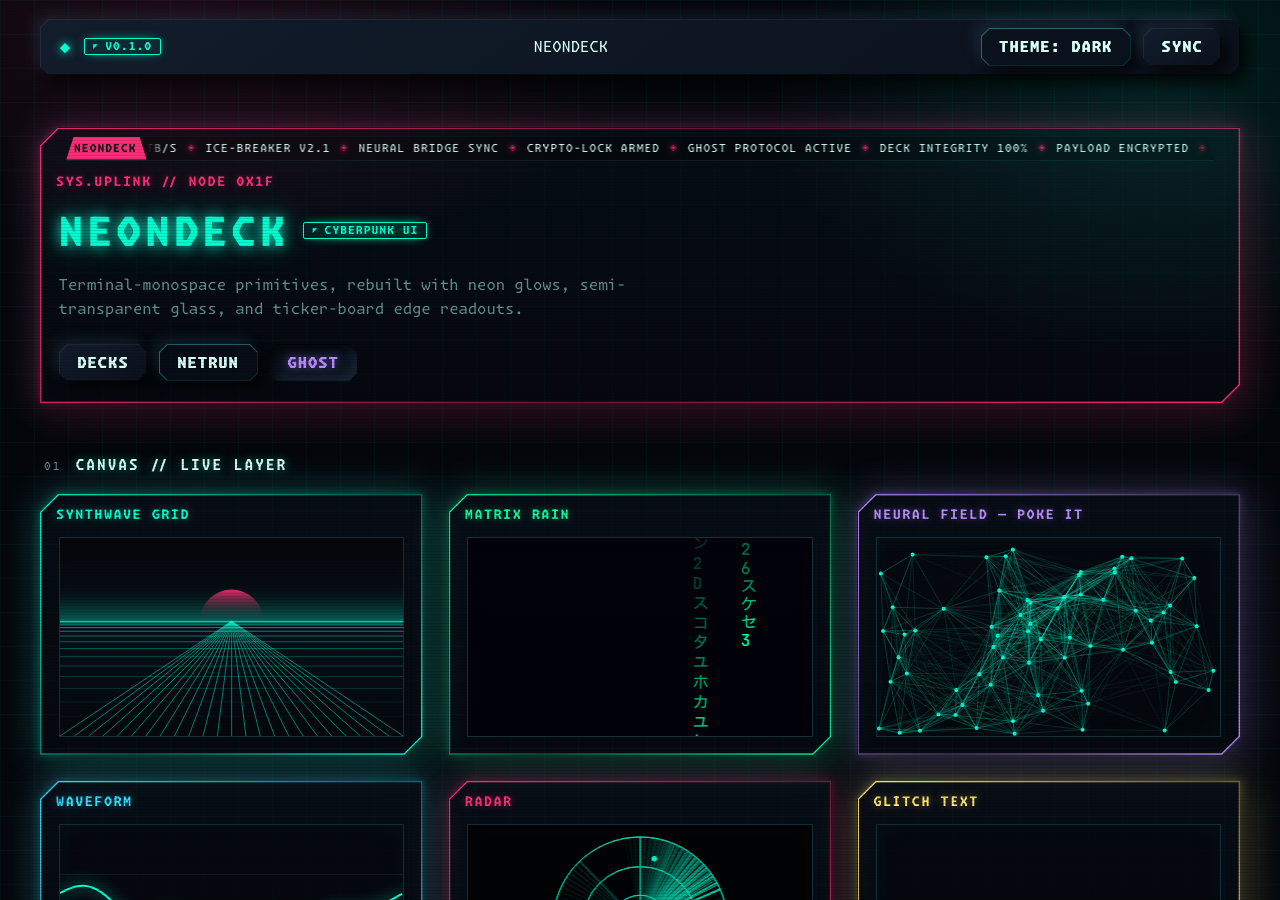
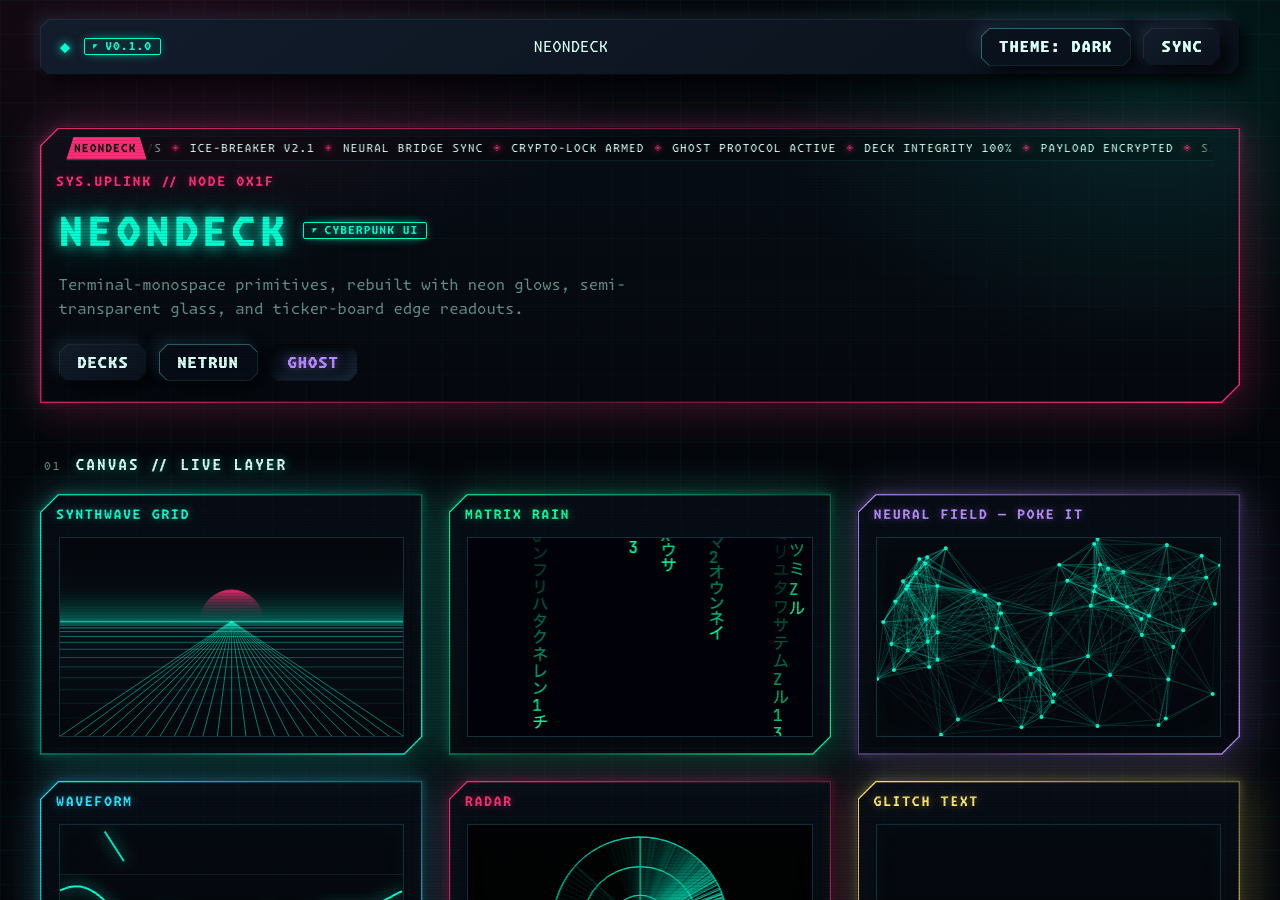
feat: add AsciiScene — three.js object rendered as transparent ASCII text
AsciiScene wraps a react-three-fiber Canvas in drei's AsciiRenderer with
a transparent clear colour. three's AsciiEffect maps fully transparent
pixels to the first ramp character, so with a ramp that starts with a
space (ASCII_RAMP) the empty canvas becomes blank text and only the
object is drawn — as glyphs in the tone colour (fgColor: currentColor)
and the deck's code font, sitting directly on whatever the component is
placed over. Dark surfaces map to dense glyphs, so the built-in shapes
use a mid-grey material with a strong key light for a full ramp. The
renderer mounts only once the viewport is measured, avoiding drei's
first-frame getImageData race.

Props: shape (Hologram shapes), tone, characters, resolution, invert,
speed, interactive, glow, label, or children for a custom scene.

Light-mode tone contrast: [data-tone] --tone is now light-dark(), with
darker variants of every neon on light so tone-coloured text (ASCII
glyphs, ticker labels, card titles) stays legible; --tone-ink is the
matching text colour for use *on* a tone fill.

Add Canvas + 3D stories, docs, a ramp invariant test, and make the
TickerBoard story's `theme` control default to auto rather than forcing
dark. Refresh screenshots.

diff --git a/components/AsciiScene.tsx b/components/AsciiScene.tsx
@@ -1,0 +1,125 @@
+'use client';
+
+import styles from '@components/AsciiScene.module.css';
+
+import * as React from 'react';
+import { Canvas, useFrame, useThree } from '@react-three/fiber';
+import { AsciiRenderer, OrbitControls } from '@react-three/drei';
+import * as THREE from 'three';
+
+import type { HologramShape } from '@components/Hologram';
+import type { NeonTone } from '@components/Ticker';
+
+/**
+ * Default ramp. Must start with a space: three's AsciiEffect treats fully
+ * transparent pixels as brightness 1 → index 0, so the empty canvas becomes
+ * blank text and the page shows through.
+ */
+export const ASCII_RAMP = ' .:-+*=%@#';
+
+interface AsciiSceneProps extends React.HTMLAttributes<HTMLDivElement> {
+  /** Built-in shape; ignored when `children` supplies a custom scene. */
+  shape?: HologramShape;
+  tone?: NeonTone;
+  /** Character ramp, sparse → dense. Keep index 0 a space for transparency. */
+  characters?: string;
+  /** Cells per canvas pixel. Lower = chunkier glyphs. Default 0.18. */
+  resolution?: number;
+  /** Flip the ramp (dense where lit). Breaks the transparent background. */
+  invert?: boolean;
+  height?: number | string;
+  /** Rotation speed multiplier. */
+  speed?: number;
+  interactive?: boolean;
+  /** Neon text-shadow on the glyphs. */
+  glow?: boolean;
+  /** Corner readout text. */
+  label?: string;
+  children?: React.ReactNode;
+}
+
+function Shape({ shape, speed }: { shape: HologramShape; speed: number }) {
+  const ref = React.useRef<THREE.Mesh>(null);
+  useFrame((_, delta) => {
+    const m = ref.current;
+    if (!m) return;
+    m.rotation.y += delta * 0.6 * speed;
+    m.rotation.x += delta * 0.22 * speed;
+  });
+
+  const geometry = (() => {
+    switch (shape) {
+      case 'sphere':
+        return <sphereGeometry args={[1.5, 48, 48]} />;
+      case 'torus':
+        return <torusGeometry args={[1.25, 0.48, 32, 96]} />;
+      case 'icosahedron':
+        return <icosahedronGeometry args={[1.6, 0]} />;
+      case 'diamond':
+        return <octahedronGeometry args={[1.6, 0]} />;
+      case 'knot':
+      default:
+        return <torusKnotGeometry args={[1.05, 0.34, 160, 24]} />;
+    }
+  })();
+
+  // dark body + rim light: dark → dense glyphs, highlights → sparse, background → space
+  return (
+    <mesh ref={ref}>
+      {geometry}
+      <meshStandardMaterial color="#5a5a5a" roughness={0.5} metalness={0.1} flatShading={shape === 'diamond' || shape === 'icosahedron'} />
+    </mesh>
+  );
+}
+
+/** drei's AsciiRenderer reads the canvas on its first frame, which can land
+ *  before its own setSize effect; wait for a measured viewport first. */
+function Ascii(props: React.ComponentProps<typeof AsciiRenderer>) {
+  const ready = useThree((s) => s.size.width > 0 && s.size.height > 0);
+  return ready ? <AsciiRenderer {...props} /> : null;
+}
+
+const AsciiScene: React.FC<AsciiSceneProps> = ({
+  shape = 'knot',
+  tone = 'teal',
+  characters = ASCII_RAMP,
+  resolution = 0.18,
+  invert = false,
+  height = 320,
+  speed = 1,
+  interactive = false,
+  glow = true,
+  label,
+  children,
+  className,
+  style,
+  ...rest
+}) => {
+  return (
+    <div
+      className={[styles.root, className].filter(Boolean).join(' ')}
+      data-tone={tone}
+      data-glow={glow || undefined}
+      style={{ height, ...style }}
+      {...rest}
+    >
+      <Canvas
+        gl={{ alpha: true, antialias: false, premultipliedAlpha: false }}
+        camera={{ position: [0, 0, 6], fov: 45 }}
+        dpr={1}
+        onCreated={({ gl }) => gl.setClearColor(0x000000, 0)}
+      >
+        <ambientLight intensity={0.5} />
+        <directionalLight position={[4, 5, 6]} intensity={7} />
+        <directionalLight position={[-5, -2, 3]} intensity={1.2} />
+        {children ?? <Shape shape={shape} speed={speed} />}
+        {interactive ? <OrbitControls enableZoom={false} enablePan={false} /> : null}
+        {/* colour comes from the wrapper via currentColor; bg stays transparent */}
+        <Ascii bgColor="transparent" fgColor="currentColor" characters={characters} invert={invert} resolution={resolution} />
+      </Canvas>
+      {label ? <div className={styles.readout}>{label}</div> : null}
+    </div>
+  );
+};
+
+export default AsciiScene;

diff --git a/global.css b/global.css
@@ -333,14 +333,16 @@ html[data-theme='light'] {
 }
 
 /* ---- shared neon tone keys: any element with data-tone gets --tone / --tone-soft ---- */
-[data-tone='teal'] { --tone: var(--neon-teal); --tone-soft: rgba(0, 255, 209, 0.45); --tone-faint: rgba(0, 255, 209, 0.14); }
-[data-tone='magenta'] { --tone: var(--neon-magenta); --tone-soft: rgba(255, 45, 120, 0.45); --tone-faint: rgba(255, 45, 120, 0.14); }
-[data-tone='yellow'] { --tone: var(--neon-yellow); --tone-soft: rgba(255, 230, 109, 0.45); --tone-faint: rgba(255, 230, 109, 0.14); }
-[data-tone='green'] { --tone: var(--neon-green); --tone-soft: rgba(0, 255, 157, 0.45); --tone-faint: rgba(0, 255, 157, 0.14); }
-[data-tone='violet'] { --tone: var(--neon-violet); --tone-soft: rgba(183, 139, 255, 0.45); --tone-faint: rgba(183, 139, 255, 0.14); }
-[data-tone='orange'] { --tone: var(--neon-orange); --tone-soft: rgba(255, 157, 45, 0.45); --tone-faint: rgba(255, 157, 45, 0.14); }
-[data-tone='red'] { --tone: var(--neon-red); --tone-soft: rgba(255, 77, 94, 0.45); --tone-faint: rgba(255, 77, 94, 0.14); }
-[data-tone='blue'] { --tone: var(--neon-blue); --tone-soft: rgba(45, 226, 255, 0.45); --tone-faint: rgba(45, 226, 255, 0.14); }
+[data-tone='teal'] { --tone: light-dark(#00a68c, var(--neon-teal)); --tone-soft: rgba(0, 255, 209, 0.45); --tone-faint: rgba(0, 255, 209, 0.14); }
+[data-tone='magenta'] { --tone: light-dark(#d81b6a, var(--neon-magenta)); --tone-soft: rgba(255, 45, 120, 0.45); --tone-faint: rgba(255, 45, 120, 0.14); }
+[data-tone='yellow'] { --tone: light-dark(#a67c00, var(--neon-yellow)); --tone-soft: rgba(255, 230, 109, 0.45); --tone-faint: rgba(255, 230, 109, 0.14); }
+[data-tone='green'] { --tone: light-dark(#009e60, var(--neon-green)); --tone-soft: rgba(0, 255, 157, 0.45); --tone-faint: rgba(0, 255, 157, 0.14); }
+[data-tone='violet'] { --tone: light-dark(#7c4dff, var(--neon-violet)); --tone-soft: rgba(183, 139, 255, 0.45); --tone-faint: rgba(183, 139, 255, 0.14); }
+[data-tone='orange'] { --tone: light-dark(#d97706, var(--neon-orange)); --tone-soft: rgba(255, 157, 45, 0.45); --tone-faint: rgba(255, 157, 45, 0.14); }
+[data-tone='red'] { --tone: light-dark(#d92638, var(--neon-red)); --tone-soft: rgba(255, 77, 94, 0.45); --tone-faint: rgba(255, 77, 94, 0.14); }
+[data-tone='blue'] { --tone: light-dark(#0891b2, var(--neon-blue)); --tone-soft: rgba(45, 226, 255, 0.45); --tone-faint: rgba(45, 226, 255, 0.14); }
+/* --tone-ink: text placed *on* a --tone fill */
+[data-tone] { --tone-ink: light-dark(#ffffff, #03110d); }
 
 /* on dark, the neumorphic "light source" takes on the element's neon tone */
 [data-tone] {

diff --git a/stories/Canvas.stories.tsx b/stories/Canvas.stories.tsx
@@ -1,6 +1,8 @@
 import type { Story } from '@ladle/react';
 
+import AsciiScene from '@components/AsciiScene';
 import GridCanvas from '@components/GridCanvas';
+import Panel from '@components/Panel';
 import GlitchText from '@components/GlitchText';
 import Hologram from '@components/Hologram';
 import MatrixRain from '@components/MatrixRain';
@@ -66,3 +68,38 @@ Hologram3D.argTypes = {
     control: { type: 'select' },
   },
 };
+
+const TONES = ['teal', 'magenta', 'yellow', 'green', 'violet', 'orange', 'red', 'blue'] as const;
+
+export const Ascii3D: Story<{ shape: string; tone: string; resolution: number; glow: boolean; interactive: boolean }> = ({
+  shape,
+  tone,
+  resolution,
+  glow,
+  interactive,
+}) => (
+  <div style={{ maxWidth: 720 }}>
+    <AsciiScene shape={shape as any} tone={tone as any} resolution={resolution} glow={glow} interactive={interactive} height={400} label="ASCII // TRANSPARENT" />
+  </div>
+);
+Ascii3D.args = { shape: 'knot', tone: 'teal', resolution: 0.18, glow: true, interactive: false };
+Ascii3D.argTypes = {
+  shape: { options: ['knot', 'torus', 'sphere', 'diamond', 'icosahedron'], control: { type: 'select' } },
+  tone: { options: TONES, control: { type: 'select' } },
+  resolution: { control: { type: 'range', min: 0.08, max: 0.35, step: 0.01 } },
+};
+
+/** Sits inside a Panel like any other content — the glass shows through the glyphs. */
+export const AsciiInPanel: Story = () => (
+  <Panel shape="wipeout" tone="magenta" style={{ maxWidth: 720 }}>
+    <div style={{ display: 'grid', gridTemplateColumns: '1fr 1fr', alignItems: 'center', gap: 16 }}>
+      <div>
+        <strong style={{ letterSpacing: 2, textTransform: 'uppercase' }}>Ghost protocol</strong>
+        <p style={{ margin: '8px 0 0', color: 'var(--theme-muted)' }}>
+          The renderer clears to alpha 0 and maps empty pixels to a space, so only the object is drawn — as text.
+        </p>
+      </div>
+      <AsciiScene shape="torus" tone="magenta" height={260} resolution={0.2} />
+    </div>
+  </Panel>
+);

diff --git a/stories/TickerBoard.stories.tsx b/stories/TickerBoard.stories.tsx
@@ -40,7 +40,7 @@ export const WrappedCard: Story<{
   tickerSpeed: number;
   tickerDirection: 'left' | 'right';
   showBottomTicker: boolean;
-  theme: 'dark' | 'light';
+  theme: 'auto' | 'dark' | 'light';
 }> = ({ message, messageTone, tickerTone, tickerSpeed, tickerDirection, showBottomTicker, theme }) => (
   <TickerBoard
     message={message}
@@ -51,7 +51,7 @@ export const WrappedCard: Story<{
     tickerSpeed={tickerSpeed}
     tickerDirection={tickerDirection}
     showBottomTicker={showBottomTicker}
-    theme={theme}
+    theme={theme === 'auto' ? undefined : theme}
   >
     <Blurb title="DECKS">
       A small message box sits right above the component. Ticker strips sit inside the frame, inset past the chamfers.
@@ -65,7 +65,7 @@ WrappedCard.args = {
   tickerSpeed: 28,
   tickerDirection: 'left',
   showBottomTicker: true,
-  theme: 'dark',
+  theme: 'auto',
 };
 WrappedCard.argTypes = {
   messageTone: { control: { type: 'select', options: TONES } },
@@ -73,7 +73,7 @@ WrappedCard.argTypes = {
   tickerDirection: { control: { type: 'select', options: ['left', 'right'] } },
   tickerSpeed: { control: { type: 'number', min: 5, max: 60, step: 1 } },
   showBottomTicker: { control: { type: 'boolean' } },
-  theme: { control: { type: 'select', options: ['dark', 'light'] } },
+  theme: { control: { type: 'select', options: ['auto', 'dark', 'light'] } },
 };
 
 export const WrappedWindow: Story<{ message: string }> = ({ message }) => (

diff --git a/tests/components.test.tsx b/tests/components.test.tsx
@@ -173,10 +173,19 @@ describe('BrailleLoader', () => {
 describe('Panel rig container query', () => {
   it('targets trails by data-side, not by a class that would hash into a different module scope', async () => {
     const { readFileSync } = await import('node:fs');
-    const css = readFileSync(new URL('../components/Panel.module.css', import.meta.url), 'utf8').replace(/\/\*[\s\S]*?\*\//g, '');
+    const { join } = await import('node:path');
+    const css = readFileSync(join(__dirname, '../components/Panel.module.css'), 'utf8').replace(/\/\*[\s\S]*?\*\//g, '');
     const block = /@container[^{]*\{([\s\S]*?)\n\}/.exec(css);
     expect(block).not.toBeNull();
     expect(block![1]).toContain('.rig > [data-side]');
     expect(block![1]).not.toMatch(/\.trail\b/);
+  });
+});
+
+describe('AsciiScene transparency contract', () => {
+  it('default ramp starts with a space so alpha-0 pixels render as nothing', async () => {
+    const { ASCII_RAMP } = await import('@components/AsciiScene');
+    expect(ASCII_RAMP[0]).toBe(' ');
+    expect(new Set(ASCII_RAMP).size).toBe(ASCII_RAMP.length);
   });
 });

diff --git a/components/AsciiScene.module.css b/components/AsciiScene.module.css
@@ -1,0 +1,38 @@
+/* The three.js canvas is hidden by drei's AsciiRenderer; what shows is a <table>
+   of glyphs it appends next to the canvas. No frame, no fill: the glyphs sit
+   straight on the page in the tone colour and the deck's code face. */
+.root {
+  position: relative;
+  display: block;
+  width: 100%;
+  overflow: hidden;
+  color: var(--tone, var(--theme-focused-foreground));
+  user-select: none;
+}
+
+.root canvas {
+  display: block;
+}
+
+/* drei/three hardcode "courier new" — match the rest of the deck */
+.root table {
+  font-family: var(--font-family-code) !important;
+  color: inherit;
+}
+
+.root[data-glow] table {
+  text-shadow: 0 0 6px var(--tone-soft, var(--theme-focused-foreground-subdued));
+}
+
+.readout {
+  position: absolute;
+  top: 10px;
+  left: 12px;
+  font-family: var(--font-family-mono);
+  font-size: 11px;
+  letter-spacing: 1.5px;
+  text-transform: uppercase;
+  color: var(--tone, var(--theme-focused-foreground));
+  text-shadow: 0 0 8px var(--tone-soft, var(--theme-focused-foreground-subdued));
+  pointer-events: none;
+}

diff --git a/index.ts b/index.ts
@@ -3,6 +3,7 @@ export { default as ActionBar } from '@components/ActionBar';
 export { default as ActionButton } from '@components/ActionButton';
 export { default as ActionListItem } from '@components/ActionListItem';
 export { default as AlertBanner } from '@components/AlertBanner';
+export { default as AsciiScene, ASCII_RAMP } from '@components/AsciiScene';
 export { default as Avatar } from '@components/Avatar';
 export { default as Badge } from '@components/Badge';
 export { default as BarLoader } from '@components/BarLoader';

diff --git a/components/Ticker.module.css b/components/Ticker.module.css
@@ -54,7 +54,7 @@
   padding: 3px 10px 3px 8px;
   /* 45° cut on the trailing edge, like a bezel tab */
   clip-path: polygon(0 0, calc(100% - 7px) 0, 100% 100%, 0 100%);
-  color: #03110d;
+  color: var(--tone-ink, #03110d);
   background: var(--tone, var(--theme-focused-foreground));
   box-shadow: 0 0 12px -2px var(--tone, var(--theme-focused-foreground));
   font-weight: 700;

diff --git a/components/AGENTS.md b/components/AGENTS.md
@@ -428,6 +428,29 @@ Shared plumbing first:
 - **Deps:** `three`, `@react-three/fiber`, `@react-three/drei`. Client-only (`'use client'`).
 - **Theming:** `--theme-border`, `--theme-focused-foreground` (readout).
 
+## AsciiScene
+
+- **Path:** `components/AsciiScene.tsx`
+- **Purpose:** react-three-fiber scene rendered as text via drei's `AsciiRenderer` (three `AsciiEffect`). The WebGL canvas clears to alpha 0 and the effect maps fully transparent pixels to the first ramp character (a space), so there is no background — only the object appears, as glyphs in the tone colour and the deck's code font, sitting directly on whatever the component is placed over. Dark surfaces → dense glyphs, highlights → sparse.
+- **Props:**
+  ```ts
+  interface AsciiSceneProps extends React.HTMLAttributes<HTMLDivElement> {
+    shape?: HologramShape;      // 'knot' (default) | 'torus' | 'sphere' | 'diamond' | 'icosahedron'
+    tone?: NeonTone;
+    characters?: string;        // ramp sparse→dense; keep index 0 a space (ASCII_RAMP = ' .:-+*=%@#')
+    resolution?: number;        // cells per pixel, default 0.18
+    invert?: boolean;           // flips the ramp — also fills the background, so off by default
+    height?: number | string;
+    speed?: number;             // rotation multiplier
+    interactive?: boolean;      // OrbitControls
+    glow?: boolean;             // neon text-shadow on the glyphs
+    label?: string;             // corner readout
+    children?: React.ReactNode; // custom scene instead of the built-in shape
+  }
+  ```
+- **Deps:** `three`, `@react-three/fiber`, `@react-three/drei`. Client-only.
+- **Theming:** `--tone` / `--tone-soft`, `--font-family-code`, `--font-family-mono`.
+
 ## GlitchText
 
 - **Path:** `components/GlitchText.tsx`

diff --git a/README.md b/README.md
@@ -108,7 +108,7 @@ export default nextConfig;
 
 ### 3D / canvas components
 
-`Hologram` needs the R3F peer deps (optional — skip unless you use it):
+`Hologram`, `NeonTunnel` and `AsciiScene` need the R3F peer deps (optional — skip unless you use them):
 
 ```sh
 npm install three @react-three/fiber @react-three/drei
@@ -230,6 +230,7 @@ ticker cap:
 | `ActionBar`, `ActionButton`, `ActionListItem`, `ButtonGroup` | ⌨ Command surfaces |
 | `Input`, `TextArea`, `Checkbox`, `BarLoader`, `BarProgress`, `BlockLoader` | ⌨ Forms + progress |
 | `BrailleLoader` | ⣿ CSS-only braille spinners (`@property` + `@counter-style`), optional glitch |
+| `AsciiScene` | ▚ three.js object rendered as transparent ASCII text, straight on the page |
 | `Avatar`, `Breadcrumbs`, `Navigation` | 🪪 Identity + navigation |
 | `Grid`, `Row`, `RowSpaceBetween`, `ContentFluid`, `Indent` | 📐 Layout |
 | `Table`, `TableRow`, `TableColumn`, `ListItem`, `Text` | 🗃 Data + copy |
